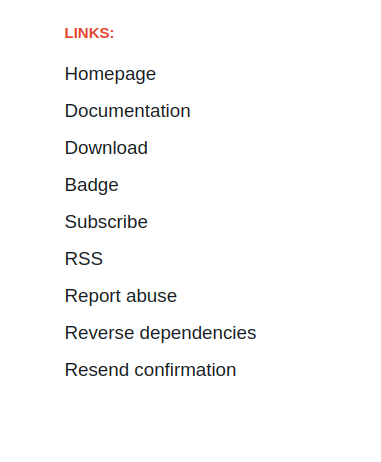
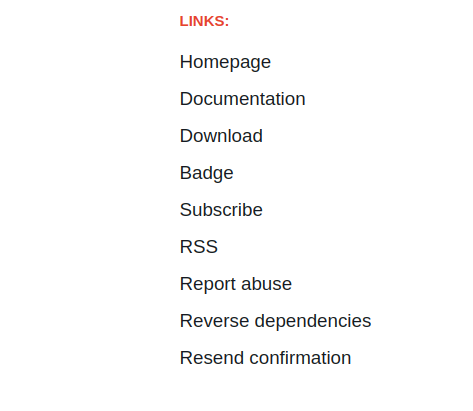
Update images and add class for smaller images

diff --git a/stylesheets/application.css b/stylesheets/application.css
@@ -917,4 +917,8 @@ a.page__heading {
   margin: 1%;
 }
 
+.t-body .t-img--small {
+  width: 70%;
+}
+
 /*# sourceMappingURL=application.css.map */

diff --git a/managing-owners-using-ui.md b/managing-owners-using-ui.md
@@ -16,7 +16,7 @@ Ownership section of your gem
 
 If you are an owner of a gem,
 a link to *Ownership* will be visible in the Links section, as shown in the image below.
-![Rubygem page](/images/managing-owners-using-ui/rubygem-page.png){:class="t-img"}
+![Rubygem page](/images/managing-owners-using-ui/rubygem-page.png){:class="t-img t-img--small"}
 
 You will be asked to enter your account's password when you visit this page. You won't be prompted for the password confirmation for the next 10 minutes. It is a precautionary measure to ensure that no one abuses your unattended logged in session.
 ![Confirm Password](/images/managing-owners-using-ui/confirm-password.png){:class="t-img"}
@@ -42,7 +42,7 @@ In case you weren't able to confirm the ownership within 48 hours,
 you can resend the confirmation link by visiting the gem page.
 `https://rubygems.org/gems/<gem-name>`
 
-![Owners Index](/images/managing-owners-using-ui/rubygem-resend-confirmation.png){:class="t-img"}
+![Resend confirmation](/images/managing-owners-using-ui/rubygem-resend-confirmation.png){:class="t-img t-img--small"}
 
 Clicking on *Resend Confirmation* will send an email with the confirmation link
 to your email address.
